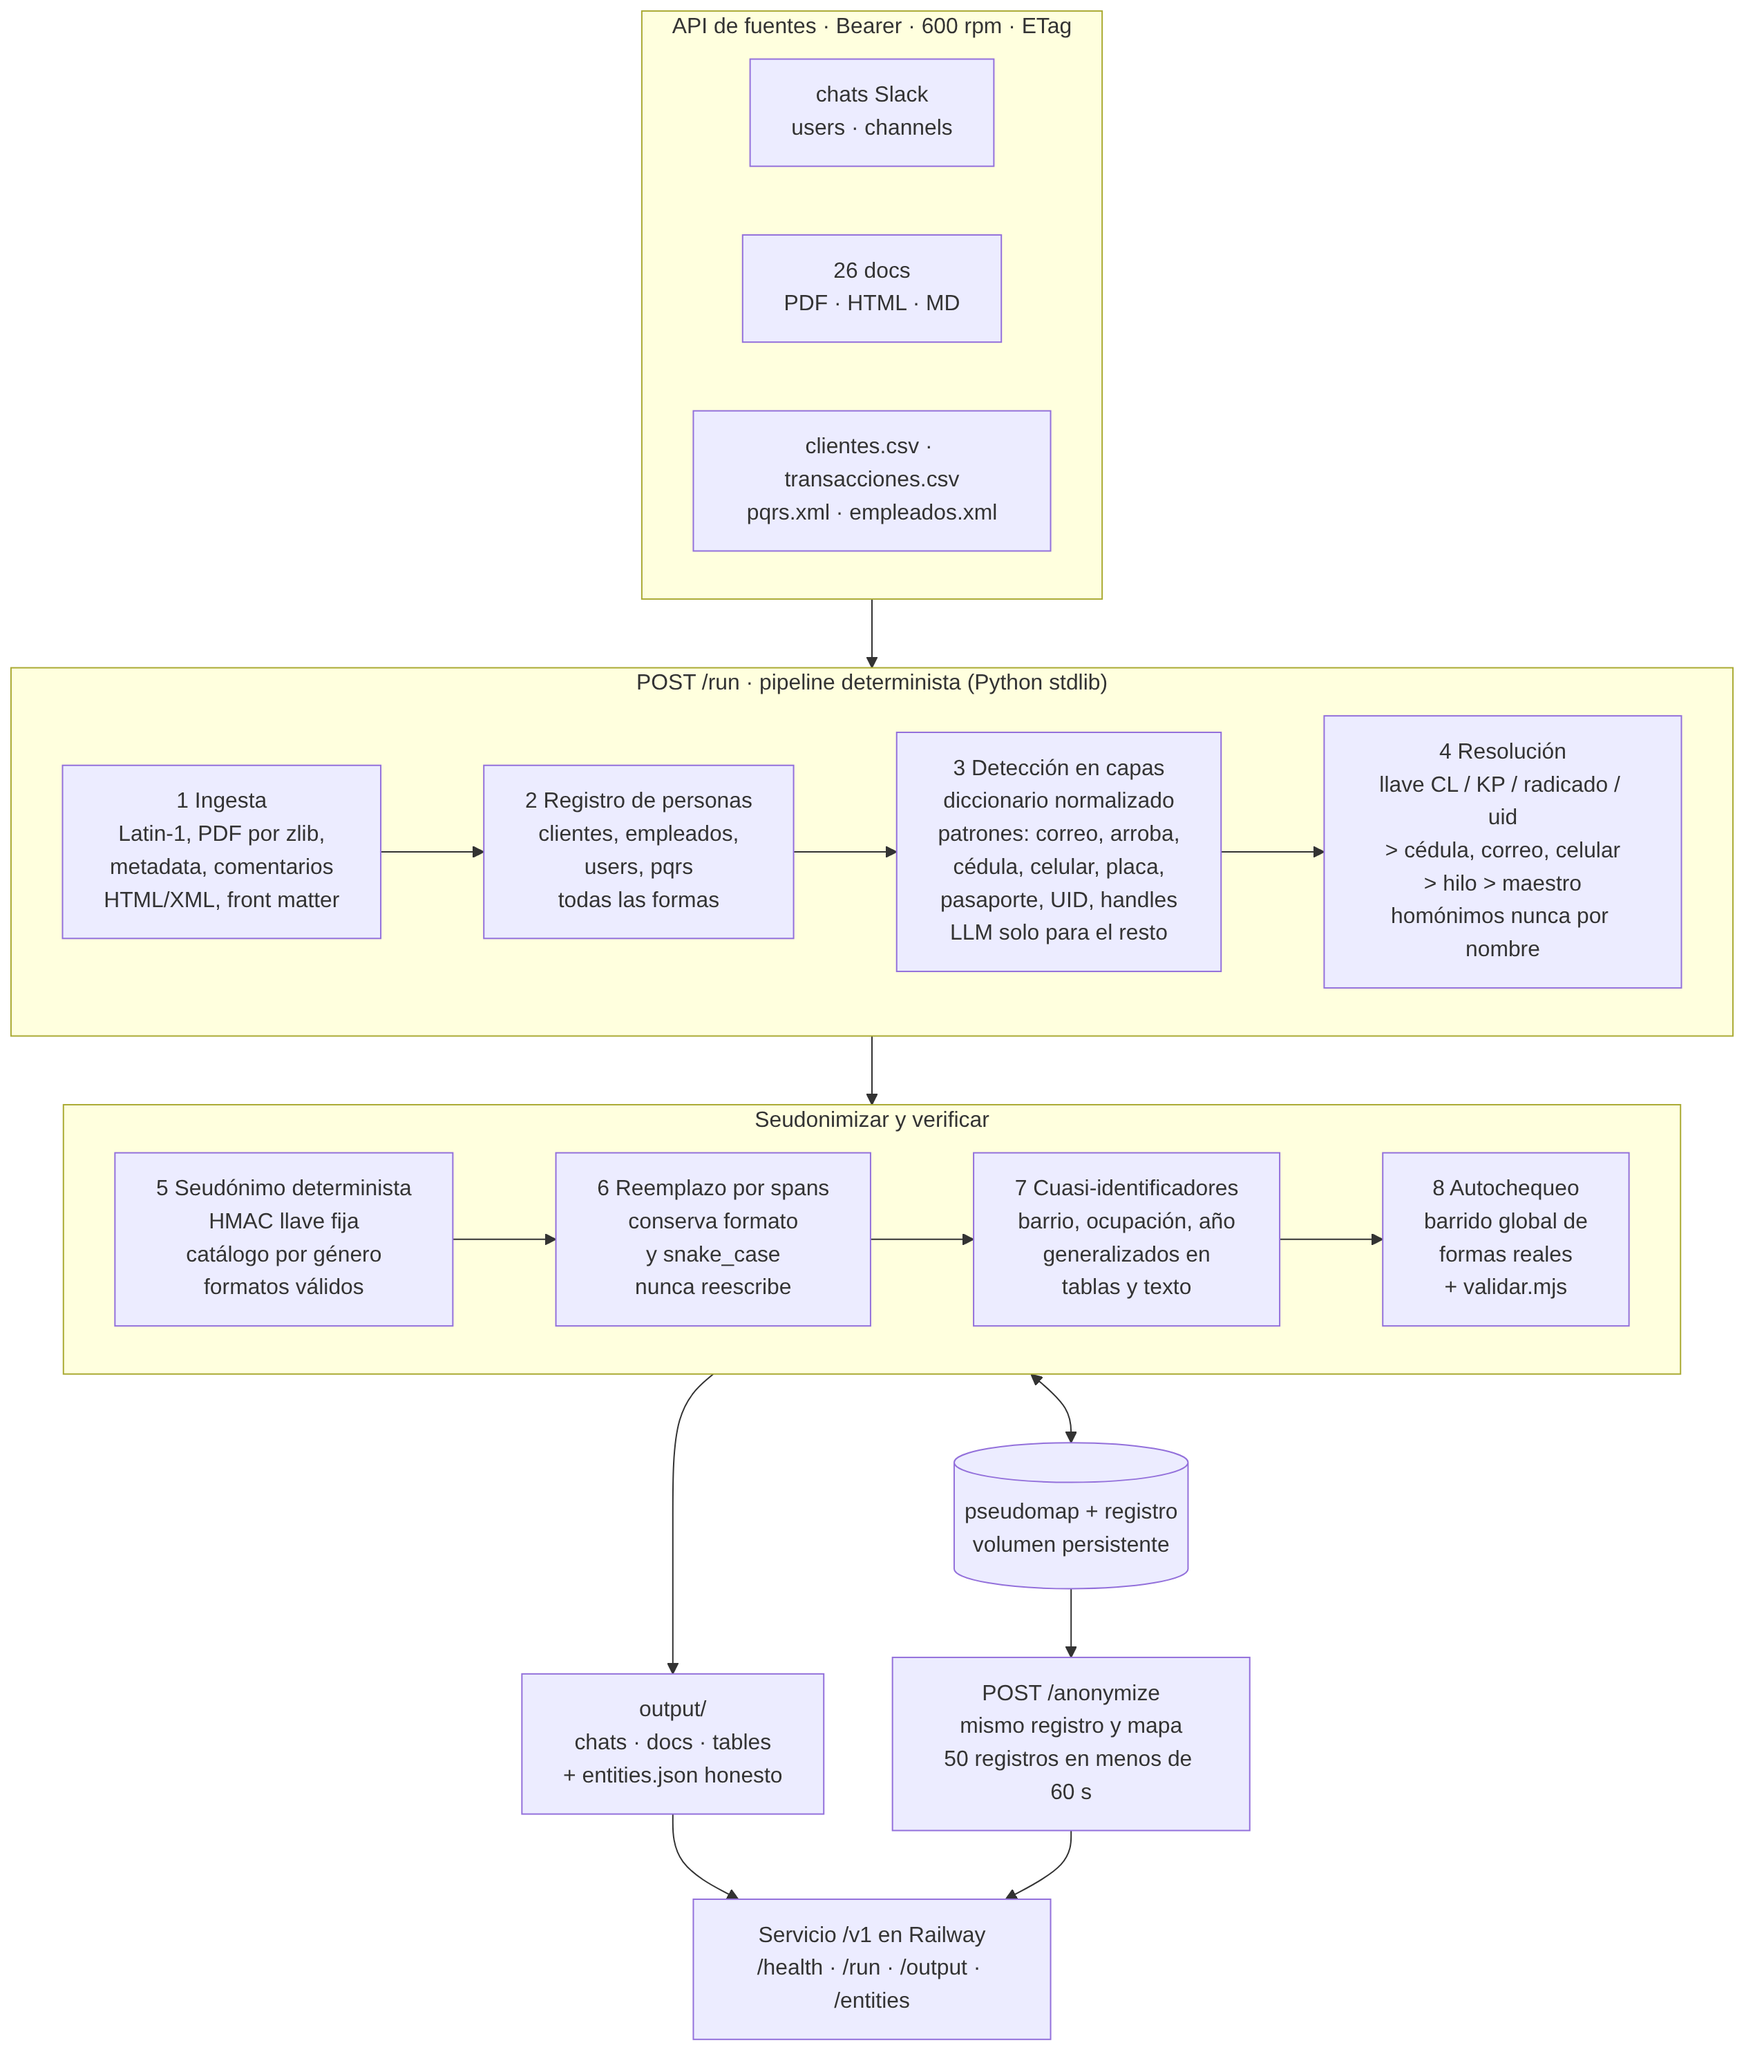
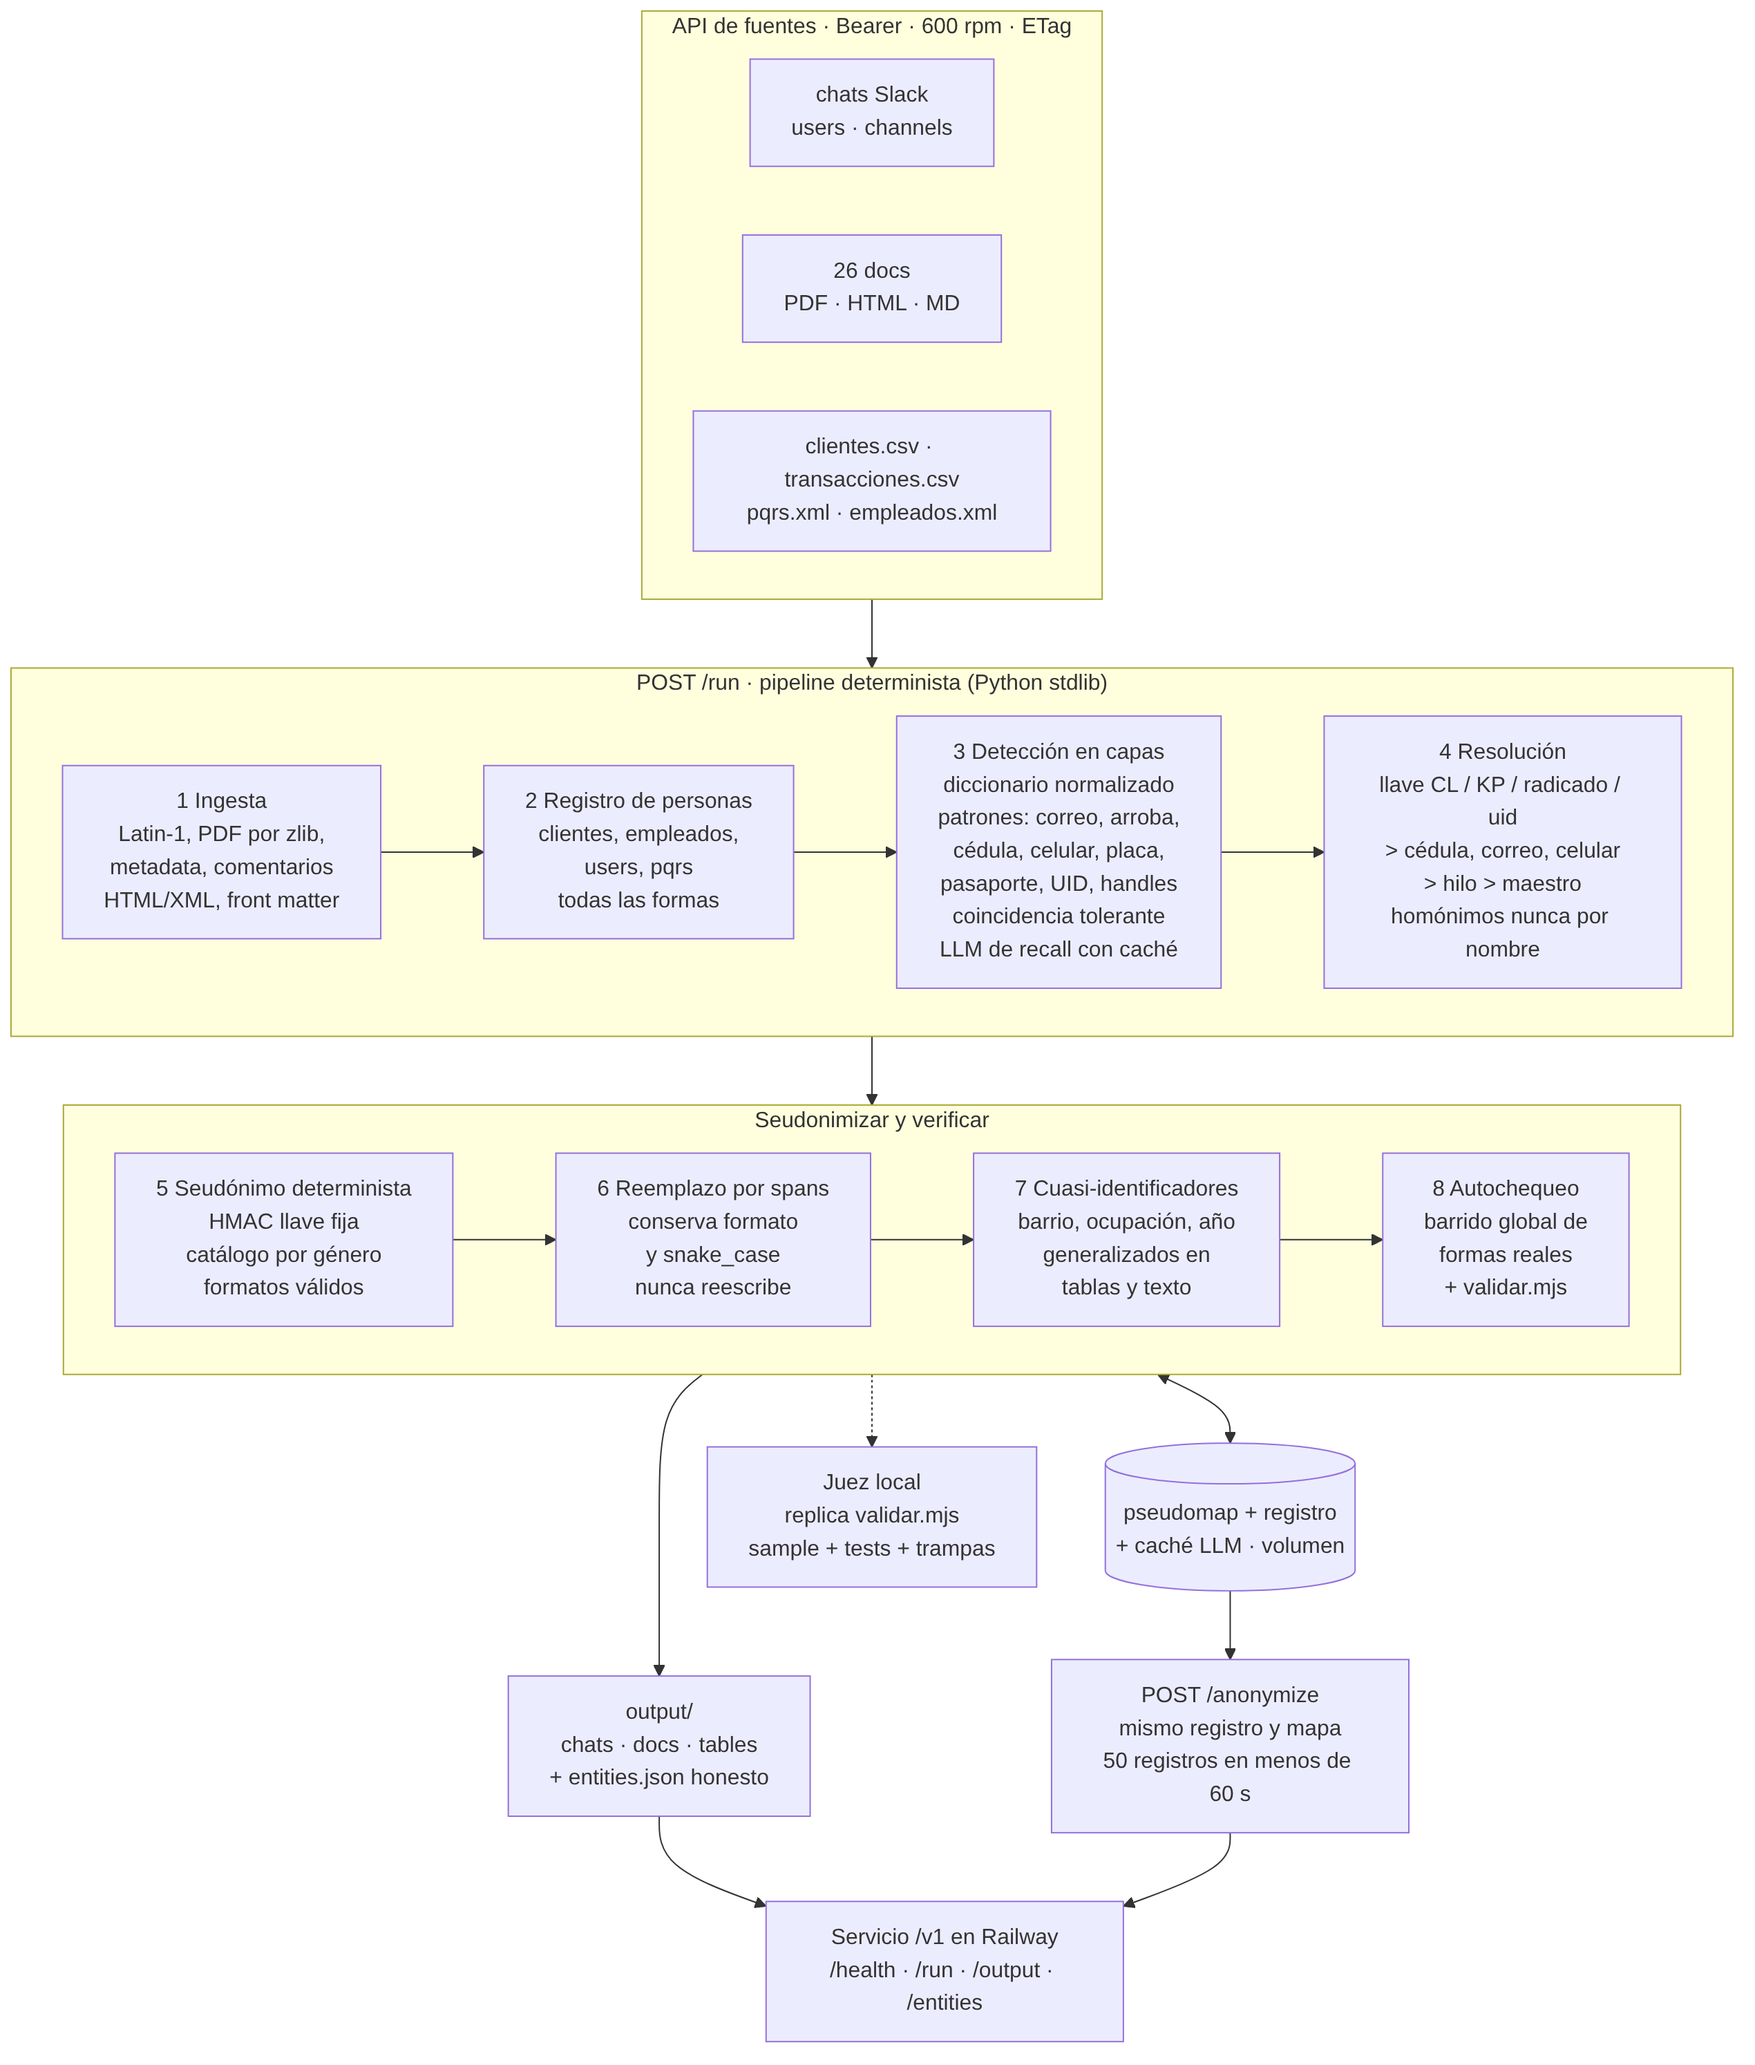
Diseño v2: recall con LLM cacheado, coincidencia tolerante y juez local

diff --git a/docs/diseno.html b/docs/diseno.html
@@ -18,17 +18,17 @@ code{font-size:8pt}
 <p class="sub">Ismael Florean · Frontier CDMX/26 · Repo: github.com/SamaelFL/kipu-anon · Diagrama: docs/diagrama.png</p>
 
 <h2>1. Problema y meta</h2>
-<p>Entregar el corpus de soporte de Kipu Pay (2.028 mensajes, 26 docs, 6.243 filas) uno a uno, sin que se pueda reidentificar a nadie, útil para entrenar y con cada persona como una sola identidad de punta a punta, incluso cuando las fuentes crecen. El jurado puntúa fuga 45, utilidad 35 y consistencia 20. <b>Meta: ≥ 90.</b> Una base sólida por reglas da ~88, así que el diseño es <b>reglas deterministas primero</b> y el LLM solo cubre el último tramo de detección. El LLM nunca reescribe texto: reescribir pierde parecido y puede inventar datos de negocio.</p>
+<p>Entregar el corpus de soporte de Kipu Pay (2.028 mensajes, 26 docs, 6.243 filas) uno a uno, sin que se pueda reidentificar a nadie, útil para entrenar y con cada persona como una sola identidad de punta a punta, incluso cuando las fuentes crecen. El jurado puntúa fuga 45, utilidad 35 y consistencia 20. <b>Meta: ≥ 90.</b> Una base sólida por reglas da ~88, Los 12 puntos que faltan viven en lo que las reglas no ven: terceros fuera del registro, nombres alterados y mecanismos ocultos. El diseño es <b>híbrido</b>: reglas deterministas y un registro de personas como columna vertebral, más una <b>segunda pasada de recall con LLM sobre todo el texto</b>, cacheada por hash para que sea determinista entre corridas, y un <b>juez local</b> que replica al del reto para medir antes de gastar corridas. El LLM nunca reescribe texto: solo señala spans.</p>
 
 <h2>2. Arquitectura (pipeline de 8 pasos, Python con librería estándar)</h2>
 <ol>
 <li><b>Ingesta:</b> cliente del API de fuentes con ETag y backoff (600 rpm). Decodifica <code>clientes.csv</code> en Latin-1. PDF: texto por <code>zlib</code> y operadores Tj, más el diccionario Info. HTML: meta y comentarios. MD: front matter. XML: atributos y comentarios. Todo se normaliza al esquema de <code>output/</code>.</li>
 <li><b>Registro de personas:</b> semillas con llave fuerte: <code>clientes</code> (CL-), <code>empleados</code> (KP-, reporta_a), <code>users.json</code> (uid, handle, correo) y <code>pqrs</code> (radicado, cédula, agente). Por persona guardamos todas las formas: nombre completo, nombre + primer apellido, nombre de pila en contexto, MAYÚSCULAS sin tildes, handle <code>nombre.apellido</code>, <code>nombre_apellido</code> de archivos, correo, cédula con y sin puntos, celular con y sin 57, dirección, nacimiento, placa y pasaporte.</li>
-<li><b>Detección en capas:</b> (a) diccionario de formas del registro con la misma normalización del juez (NFKC, confusables, sin tildes, minúsculas, separadores de dígitos); (b) patrones: correo, correo deletreado "arroba/punto", cédula, celular, placa <code>ABC123</code>, pasaporte, <code>&lt;@UID&gt;</code>, handles; (c) LLM barato con JSON estricto y caché, solo para nombres de terceros fuera del registro y para decidir persona vs. organización, lugar o figura pública. Hay lista de conservación: Bancolombia, Nequi, Superfinanciera, Carulla, ciudades, figuras públicas.</li>
+<li><b>Detección en capas:</b> (a) diccionario de formas del registro con la misma normalización del juez (NFKC, confusables, sin tildes, minúsculas, separadores de dígitos); (b) patrones: correo, correo deletreado "arroba/punto", cédula, celular, placa <code>ABC123</code>, pasaporte, <code>&lt;@UID&gt;</code>, handles; (c) <b>coincidencia tolerante</b> contra el registro (distancia de edición 1, confusables, invisibles y dígitos con espacios), para atrapar copias alteradas en <code>/anonymize</code>; (d) <b>LLM en paralelo sobre cada hilo y documento</b> (contexto completo, JSON estricto con spans y tipo), unido a las reglas y reconciliado con el registro. Su respuesta se guarda por hash del registro, así que la misma entrada da la misma salida, y después del cambio de fuentes solo se procesa lo nuevo. Hay lista de conservación: Bancolombia, Nequi, Superfinanciera, Carulla, ciudades, figuras públicas.</li>
 <li><b>Resolución de identidad</b>, por orden de evidencia: llave explícita (CL-, KP-, radicado, uid del autor) &gt; identificador fuerte en el mismo registro o hilo (cédula, correo, celular) &gt; participantes del hilo &gt; fila del maestro. <b>Los homónimos nunca se fusionan por nombre:</b> el desempate viene de un radicado, una fecha con monto, un adjunto o la fila del maestro. Una mención ambigua sin evidencia queda como persona aparte.</li>
 <li><b>Seudónimos deterministas:</b> <code>HMAC-SHA256(llave fija, llave de la persona)</code> elige de un catálogo propio de nombres y apellidos colombianos, del mismo género y con la misma forma que el original (dos nombres y dos apellidos → dos y dos; nombre de pila → nombre de pila). Nunca se elige un nombre que exista entre las personas reales del corpus. De ahí se derivan un correo del mismo dominio y formato (<code>nombre.apellido@kipupay.co</code>), una cédula de la misma longitud con formato válido y lejos del original, un celular 3xx válido, una dirección y una fecha plausibles. Las colisiones se resuelven con un contador. El mapa se persiste en un volumen, así que la misma persona conserva su seudónimo después del cambio de fuentes y en <code>/anonymize</code>.</li>
 <li><b>Reemplazo por spans</b>, de la forma más larga a la más corta, conservando el formato: puntos de la cédula, mayúsculas, nombre corto ↔ nombre corto y snake_case en nombres de archivo. También se reemplaza en metadata, adjuntos y comentarios. Nunca se borra una clave ni se vacía un registro.</li>
-<li><b>Cuasi-identificadores:</b> se calcula k-anonimato sobre (ciudad, barrio, ocupación, año) en el maestro. Donde k &lt; 5 se generaliza en <b>tablas y texto</b>: ocupación → sector, barrio → otro barrio de la misma ciudad o la ciudad, año → "hace unos años". La ciudad y la fecha de vinculación quedan intactas.</li>
+<li><b>Cuasi-identificadores:</b> se calcula k-anonimato sobre (ciudad, barrio, ocupación, año) en el maestro. Donde k &lt; 5 se generaliza en <b>tablas y texto</b>: ocupación → sector con el vocabulario de la salida ideal ("profesional de medios"), barrio → otro barrio de la misma ciudad, año → "hace unos años". La ciudad y la fecha de vinculación quedan intactas.</li>
 <li><b>Autochequeo antes de publicar:</b> barrido global de todas las formas reales del registro sobre toda la salida, con la normalización del juez. Si algo sobrevive, se hace una segunda pasada; además corre <code>validar.mjs</code>. <code>entities.json</code> declara todas las formas originales encontradas, los registros y los conservados con <code>kept</code> y <code>reason</code>.</li>
 </ol>
 
@@ -37,7 +37,8 @@ code{font-size:8pt}
 <p>Raíz <code>/v1</code> con <code>ThreadingHTTPServer</code>; acepta Bearer opcional. <code>POST /run</code> encola el job en un hilo y <code>GET /run/{id}</code> da estado, conteos y costo. <code>/output/*</code> y <code>/entities</code> se leen del volumen. <code>/anonymize</code> usa en memoria el mismo registro y mapa: una persona vista recibe el mismo seudónimo y una nueva recibe uno nuevo y único. Corte de 45 s: si el LLM no responde, sigue solo con reglas. Corre en Railway: 1 réplica, sin reposo, volumen y healthcheck.</p>
 <h2>4. Decisiones y trade-offs</h2>
 <table><tr><th>Elegimos</th><th>Descartamos y por qué</th></tr>
-<tr><td>Reglas + registro y LLM solo como detector</td><td>LLM end-to-end: caro, no determinista, reescribe texto</td></tr>
+<tr><td>Reglas + registro + LLM de recall cacheado</td><td>Solo reglas: se queda en ~88. LLM end-to-end: no determinista y reescribe</td></tr>
+<tr><td>Juez local que replica al del reto</td><td>Iterar a ciegas con 3 corridas</td></tr>
 <tr><td>HMAC determinista + mapa persistido</td><td>Seudónimos al azar: rompen la consistencia entre corridas</td></tr>
 <tr><td>Generalizar cuasi-identificadores</td><td>Borrar: pierde utilidad y falla los tests de fuga</td></tr>
 <tr><td>Librería estándar</td><td>Presidio o NER listos: prohibidos; menos dependencias, menos fallas</td></tr>
@@ -51,7 +52,7 @@ code{font-size:8pt}
 <li><b>Fuentes que crecen:</b> el canario de <code>record_index</code> con ETag detecta el cambio. Las personas viejas conservan su seudónimo y las nuevas reciben uno nuevo. La corrida 1 va antes del cambio porque vale 30 %.</li>
 </ul>
 <h2>6. Costo y evaluación</h2>
-<p>El corpus pesa ~435 mil tokens; el LLM solo ve los fragmentos sin resolver, estimado en menos de 150 mil tokens por corrida (centavos de dólar) y menos de 10 min por corrida. Se mide en local con <code>validar.mjs</code>, los 5 tests públicos, el diff contra <code>sample/expected_output</code> y un detector propio de fugas, todo por familia: directa, indirecta, oculta, falso positivo, homónimos y consistencia. El costo real se reporta en <code>/run</code> y <code>DECISIONS.md</code>.</p>
+<p>El corpus pesa ~435 mil tokens; el LLM ve ~250 mil (chats, docs, notas y descripciones; las columnas estructuradas no). Con un modelo chico y 8 hilos en paralelo, cuesta alrededor de US$1 y tarda menos de 15 min; con caché, las corridas siguientes casi no cuestan. <b>Juez local:</b> la normalización de <code>validar.mjs</code> se copia tal cual. Corre el pipeline sobre <code>sample/input</code> y compara contra <code>expected_output</code>: partición de personas, fugas, parecido y conservados. También corre los 13 tests de la muestra, los 5 públicos y una batería propia de trampas del enunciado. Todo se reporta por familia. El costo real se reporta en <code>/run</code> y <code>DECISIONS.md</code>.</p>
 <h2>7. Límites</h2>
 <p>Los nombres de pila sueltos sin contexto pueden quedar ambiguos; se priorizan sobre el riesgo de fusionar. Los PDF con fuentes embebidas raras quedarían fuera del parser stdlib; habría que agregar un extractor como respaldo.</p>
 </div></div>
